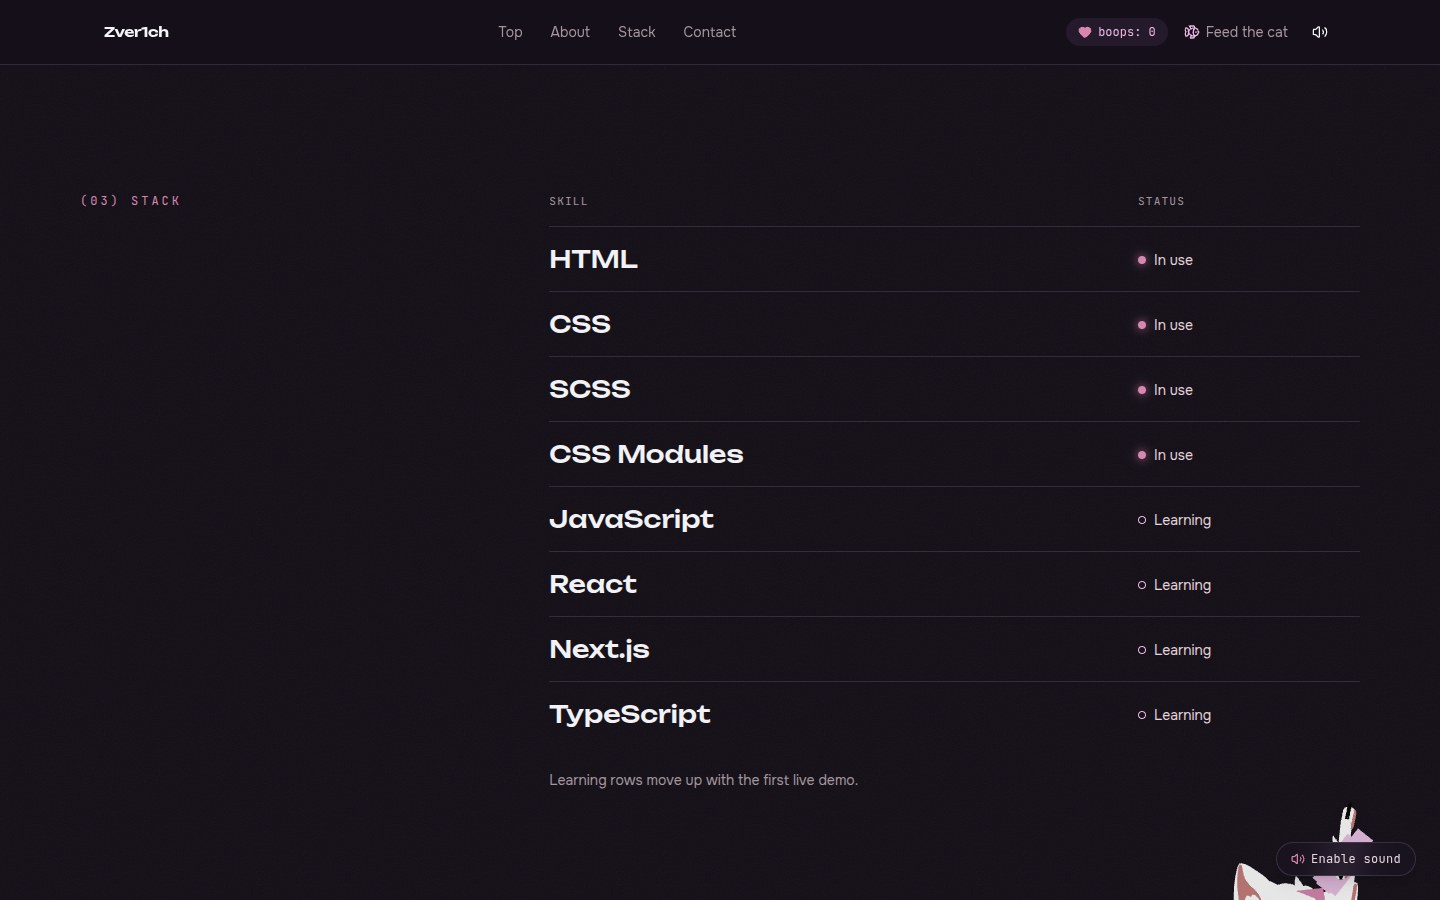
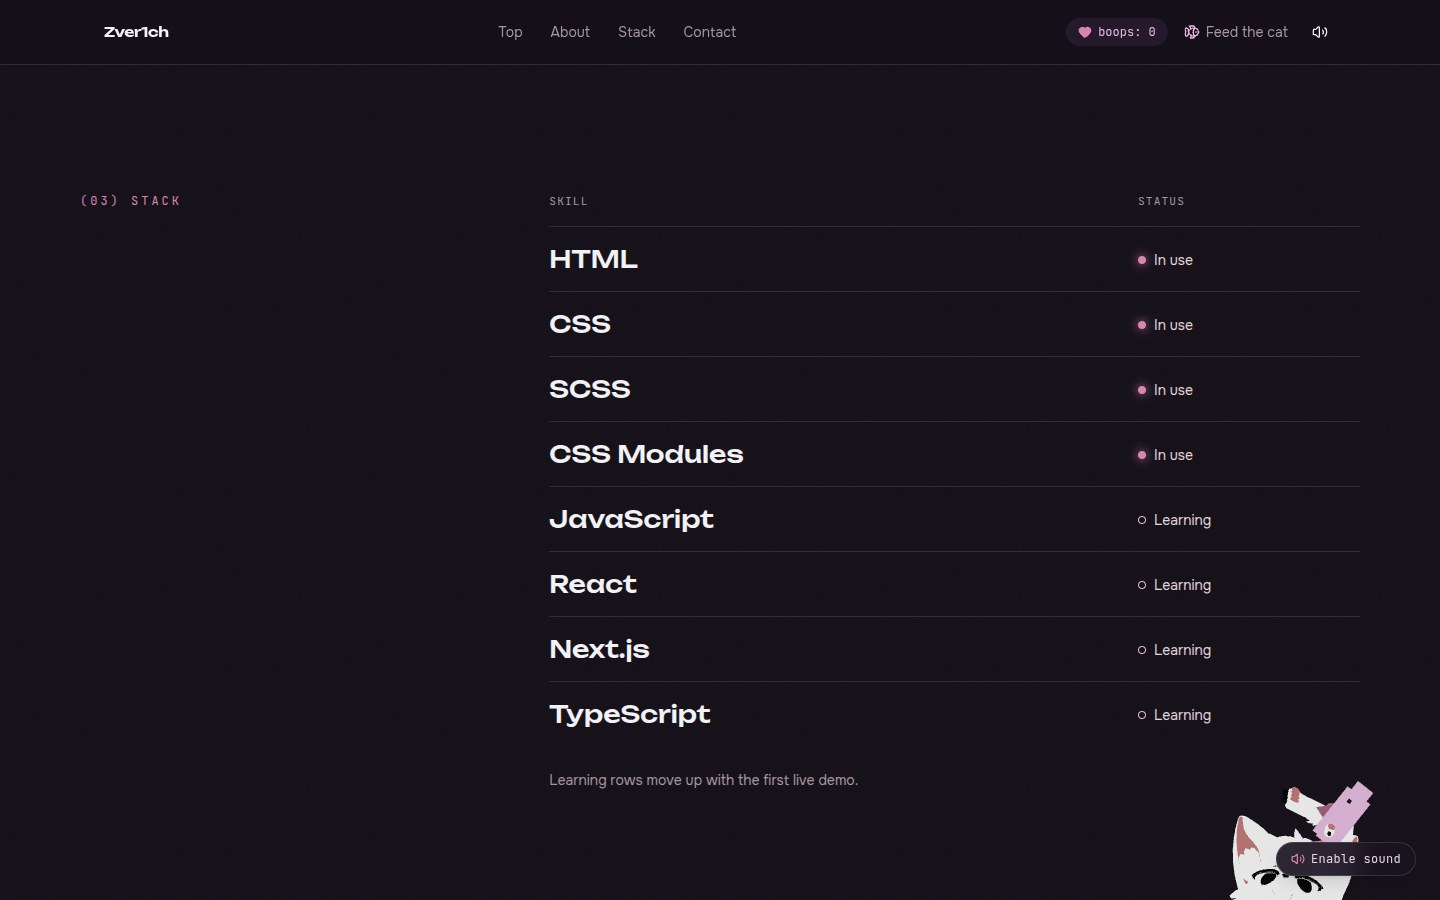
feat: gate 2 round 1: the hooked paw, a curled sleep pose, a blinking caret
The reaching paw was hyperextended with the pads to the sky: the arm IK now
rolls the forearm about its axis after the aim (twistDeg, -90 degrees for the
fish) and the reach pose flexes the wrist 70 degrees, so the paw curls
towards the head like a hook with the pads facing it and the visitor. The
pose format gains `post`, a local Euler offset applied after `aim` and
`twist`: exactly what the lab's bone/axis/deg override and sliders do, so a
value found there bakes in as it is.

The sleep pose is rewritten from scratch in character space: curled on the
left side with the back to the monitor and the belly to the visitor, head
towards the lamp, paws folded under the chin, thighs drawn up with the shins
folded back, the tail round the feet. The sleepy stretch shares the new root
(front legs out along the desk past the head, the back arched, hind legs
straight, tail out). Both clear the furniture by the clip check; the dawn
posters are re-rendered.

The typing line's caret blinks like a prompt (1.1 s, stepped) while the line
is idle and holds while the paw types; still under reduced motion.

- lab: `twist=` overrides the forearm roll, a turntable `reach` gets a target
- docs: the round-1 section and renders in the Gate 2 package, the stills
  recaptured from the production build

Changed region(s): [[0.8438, 0.8711, 0.9688, 1.0]]

diff --git a/src/features/cat-room/config/poses.ts b/src/features/cat-room/config/poses.ts
@@ -28,6 +28,12 @@ export type BonePose = {
 	aimWorld?: Vec3
 	/** Roll about the bone axis after `aim`, degrees. */
 	twist?: number
+	/**
+	 * Local Euler XYZ offset in degrees applied last, after `aim` and
+	 * `twist`: the same thing the lab's sliders and `bone/axis/deg` do, so a
+	 * value found there bakes in as it is.
+	 */
+	post?: Vec3
 }
 
 export type Pose = {
@@ -160,37 +166,49 @@ export const POSES: Record<PoseName, Pose> = {
 		},
 	},
 
+	/**
+	 * Asleep on the desk in front of the monitor (Gate 2, round 1): curled on
+	 * the left side, back to the monitor, belly to the visitor, head towards the
+	 * lamp. Written in character space, which lying on the left side maps to
+	 * the world as: +Y along the desk towards the head (+X world), +Z to the
+	 * visitor, +X down into the desk. The spine bends gently towards the
+	 * belly, so the face turns along the desk towards the dawn camera; the
+	 * forearms fold under the chin; the thighs come up towards the belly with
+	 * the shins folded back; the tail trails behind and curls round the feet.
+	 */
 	sleep: {
-		// Relative to the sitting spot: the sleeper lies along the desk from x = 0.
-		root: { position: [-0.7, 0.12, -0.26], rotation: [-75, 0, -90] },
+		root: { position: [-0.7, 0.1, -0.34], rotation: [-20, 0, -90] },
 		bones: {
-			hips: { aimWorld: [1, 0.08, 0.02] },
-			chest: { aimWorld: [1, 0.12, -0.05] },
-			neck: { aimWorld: [0.95, -0.1, -0.2] },
-			head: { aimWorld: [0.9, -0.3, -0.25], twist: 25 },
-			// Front paws stretched past the head and resting on the desk.
-			arm_l: { aimWorld: [0.7, -0.45, 0.4] },
-			elbow_l: { aimWorld: [0.95, -0.08, 0.25] },
-			wrist_l: { aimWorld: [1, 0.1, 0.15] },
-			arm_r: { aimWorld: [0.75, -0.45, -0.3] },
-			elbow_r: { aimWorld: [0.95, -0.08, -0.2] },
-			wrist_r: { aimWorld: [1, 0.1, -0.1] },
-			// Hind legs stretched the other way, slightly splayed, toes up.
-			leg_l: { aimWorld: [-0.85, 0.1, 0.45] },
-			knee_l: { aimWorld: [-0.95, 0.12, 0.3] },
-			foot_l: { aimWorld: [-0.85, 0.45, 0.3] },
-			leg_r: { aimWorld: [-0.88, 0.12, -0.3] },
-			knee_r: { aimWorld: [-0.92, 0.2, -0.25] },
-			foot_r: { aimWorld: [-0.75, 0.6, -0.3] },
-			// Tail thrown over the near thigh and down along the shin: the only
-			// room on the desk (the monitor base is behind, the keyboard in front).
-			tailroot: { aimWorld: [-0.35, 0.45, 0.8] },
-			tail: { aimWorld: [-0.8, 0.2, 0.45] },
-			tail001: { aimWorld: [-0.95, 0.05, -0.1] },
-			tail002: { aimWorld: [-0.95, 0, -0.3] },
-			tail003: { aimWorld: [-0.9, 0, -0.45] },
-			tail004: { aimWorld: [-0.85, 0, -0.5] },
-			tail005: { aimWorld: [-0.8, 0, -0.55] },
+			hips: { aim: [0, 1, 0.1] },
+			chest: { aim: [0, 0.95, 0.3] },
+			neck: { aim: [0, 0.9, 0.44] },
+			head: { aim: [0, 0.78, 0.63], post: [0, 0, 60] },
+			// Upper arms along the chest towards the chin, forearms folded in
+			// front of it, paws tucked under the chin (the `post` raise is what
+			// the lab's sliders found): the lower (left) arm on the desk, the
+			// right one over it.
+			arm_l: { aim: [0.5, 0.75, 0.45], post: [40, 0, 0] },
+			elbow_l: { aim: [0.2, 0.3, 0.93] },
+			wrist_l: { aim: [0, 0.5, 0.86] },
+			arm_r: { aim: [-0.1, 0.8, 0.6], post: [40, 0, 0] },
+			elbow_r: { aim: [0.1, 0.2, 0.97] },
+			wrist_r: { aim: [0, 0.4, 0.9] },
+			// Thighs up towards the belly, shins folded back, the right leg lying
+			// on the left one.
+			leg_l: { aim: [0.15, 0.45, 0.88] },
+			knee_l: { aim: [0.05, -0.95, 0.3] },
+			foot_l: { aim: [0, -0.8, 0.6] },
+			leg_r: { aim: [0.05, 0.45, 0.88] },
+			knee_r: { aim: [0, -0.95, 0.3] },
+			foot_r: { aim: [0, -0.8, 0.6] },
+			// The tail trails behind along the desk and curls round the feet.
+			tailroot: { aim: [0.1, -0.8, -0.6] },
+			tail: { aim: [0.1, -1, -0.1] },
+			tail001: { aim: [0.1, -0.9, 0.4] },
+			tail002: { aim: [0.1, -0.6, 0.8] },
+			tail003: { aim: [0.1, -0.2, 1] },
+			tail004: { aim: [0.05, 0.2, 0.98] },
+			tail005: { aim: [0.05, 0.5, 0.86] },
 			ear_l: { rot: [0, 0, 20] },
 			ear_r: { rot: [0, 0, -20] },
 			lefteye: { rot: [180, 0, 0] },
@@ -200,36 +218,37 @@ export const POSES: Record<PoseName, Pose> = {
 
 	/**
 	 * The pet reaction of the sleeper, played over `sleep` (same root, eyes
-	 * still shut): front paws pushed further along the desk, back arched,
-	 * hind legs straightened with the toes spread, head lifting a little,
-	 * ears up, tail curling off the shin. The jaw layer adds the yawn.
+	 * still shut): the front legs push out along the desk past the head, the
+	 * back arches, the hind legs straighten with the toes spread, the head
+	 * lifts a little, the ears come up, the tail straightens behind. The jaw
+	 * layer adds the yawn. Character space, as `sleep`.
 	 */
 	'sleep-stretch': {
-		root: { position: [-0.7, 0.12, -0.26], rotation: [-75, 0, -90] },
+		root: { position: [-0.7, 0.1, -0.34], rotation: [-20, 0, -90] },
 		bones: {
-			hips: { aimWorld: [1, 0.16, 0.02] },
-			chest: { aimWorld: [1, 0.26, -0.05] },
-			neck: { aimWorld: [0.95, 0.05, -0.2] },
-			head: { aimWorld: [0.92, -0.12, -0.3], twist: 15 },
-			arm_l: { aimWorld: [0.85, -0.3, 0.42] },
-			elbow_l: { aimWorld: [1, 0, 0.2] },
-			wrist_l: { aimWorld: [1, 0.12, 0.1] },
-			arm_r: { aimWorld: [0.88, -0.3, -0.32] },
-			elbow_r: { aimWorld: [1, 0, -0.15] },
-			wrist_r: { aimWorld: [1, 0.12, -0.05] },
-			leg_l: { aimWorld: [-0.92, 0.05, 0.4] },
-			knee_l: { aimWorld: [-0.98, 0.08, 0.2] },
-			foot_l: { aimWorld: [-0.9, 0.4, 0.2] },
-			leg_r: { aimWorld: [-0.94, 0.08, -0.3] },
-			knee_r: { aimWorld: [-0.97, 0.15, -0.2] },
-			foot_r: { aimWorld: [-0.8, 0.55, -0.25] },
-			tailroot: { aimWorld: [-0.3, 0.6, 0.7] },
-			tail: { aimWorld: [-0.7, 0.45, 0.5] },
-			tail001: { aimWorld: [-0.9, 0.3, 0.1] },
-			tail002: { aimWorld: [-0.95, 0.15, -0.2] },
-			tail003: { aimWorld: [-0.92, 0.05, -0.4] },
-			tail004: { aimWorld: [-0.88, 0, -0.48] },
-			tail005: { aimWorld: [-0.82, 0, -0.55] },
+			hips: { aim: [0, 1, -0.05] },
+			chest: { aim: [0, 0.95, -0.2] },
+			neck: { aim: [0, 0.95, 0.1] },
+			head: { aim: [0, 0.9, 0.4], post: [0, 0, 45] },
+			arm_l: { aim: [0.05, 0.95, 0.3] },
+			elbow_l: { aim: [0, 0.95, 0.3] },
+			wrist_l: { aim: [0, 0.9, 0.44] },
+			arm_r: { aim: [-0.2, 0.9, 0.4] },
+			elbow_r: { aim: [0, 0.95, 0.3] },
+			wrist_r: { aim: [0, 0.9, 0.44] },
+			leg_l: { aim: [0.05, -0.9, 0.42] },
+			knee_l: { aim: [0.05, -0.95, 0.3] },
+			foot_l: { aim: [0, -0.7, 0.7] },
+			leg_r: { aim: [-0.1, -0.85, 0.5] },
+			knee_r: { aim: [-0.05, -0.95, 0.3] },
+			foot_r: { aim: [0, -0.6, 0.8] },
+			tailroot: { aim: [0.1, -0.9, -0.4] },
+			tail: { aim: [0.1, -1, -0.1] },
+			tail001: { aim: [0.1, -1, 0.1] },
+			tail002: { aim: [0.1, -0.95, 0.3] },
+			tail003: { aim: [0.05, -0.9, 0.44] },
+			tail004: { aim: [0.05, -0.85, 0.5] },
+			tail005: { aim: [0, -0.8, 0.6] },
 			ear_l: { rot: [0, 0, 6] },
 			ear_r: { rot: [0, 0, -6] },
 			lefteye: { rot: [180, 0, 0] },
@@ -259,13 +278,18 @@ export const POSES: Record<PoseName, Pose> = {
 		},
 	},
 
-	/** Overlay gag: the left paw reaching up for the fish or the cursor. */
+	/**
+	 * Overlay gag: the left paw reaching up for the fish or the cursor. The
+	 * arm itself is placed by the IK; the wrist's flex (`post`) curls the paw
+	 * towards the head so the pads face it, and `GAGS.fish.pawTwistDeg` rolls
+	 * the forearm so that curl faces the visitor.
+	 */
 	reach: {
 		bones: {
 			chest: { aim: [0.15, 0.95, 0.15] },
 			arm_l: { aim: [0.3, 0.9, 0.3] },
 			elbow_l: { aim: [0.1, 0.95, 0.25] },
-			wrist_l: { aim: [0, 0.9, 0.4] },
+			wrist_l: { aim: [0, 0.9, 0.4], post: [70, 0, 0] },
 			arm_r: { aim: [-0.3, -0.9, 0.3] },
 			elbow_r: { aim: [-0.1, -0.6, 0.8] },
 		},

diff --git a/src/features/cat-room/ui/typing-line.tsx b/src/features/cat-room/ui/typing-line.tsx
@@ -26,6 +26,8 @@ export function TypingLine({
 	const line = useRef<HTMLSpanElement>(null)
 	const { entered } = useInView(line, '0px')
 	const [shown, setShown] = useState(text)
+	// The caret blinks while nothing happens and holds steady while the paw types.
+	const [busy, setBusy] = useState(false)
 
 	useEffect(() => {
 		if (!entered) return
@@ -36,6 +38,7 @@ export function TypingLine({
 			let length = text.length
 			let phase: 'erase' | 'type' = 'erase'
 			const step = () => {
+				setBusy(true)
 				if (phase === 'erase') {
 					length -= 1
 					setShown(text.slice(0, length))
@@ -51,6 +54,7 @@ export function TypingLine({
 						step,
 						TYPE_MS + Math.random() * TYPE_JITTER_MS,
 					)
+				else setBusy(false)
 			}
 			timer = window.setTimeout(step, 400)
 		}
@@ -60,6 +64,7 @@ export function TypingLine({
 			window.clearTimeout(timer)
 			window.removeEventListener('cat-typing', run)
 			setShown(text)
+			setBusy(false)
 		}
 	}, [entered, text])
 
@@ -67,6 +72,7 @@ export function TypingLine({
 		<span
 			ref={line}
 			data-typing-line
+			data-busy={busy ? '' : undefined}
 			aria-hidden
 			className={cn(
 				'inline-block min-w-[10ch] text-right font-mono tracking-normal normal-case after:ml-px after:inline-block after:h-[1em] after:w-[0.5ch] after:translate-y-[0.15em] after:bg-rose/80 after:content-[""]',

diff --git a/src/features/cat-room/lib/scene/cat/limb-ik.ts b/src/features/cat-room/lib/scene/cat/limb-ik.ts
@@ -1,4 +1,5 @@
-import type { Quaternion } from 'three'
+import { Quaternion } from 'three'
+import { DEG } from '@/shared/lib/math/ease'
 import type { Vec3 } from '@/shared/lib/math/vec3'
 import { solveTwoBone } from '../../ik'
 import type { CatRig } from './rig'
@@ -7,6 +8,8 @@ import type { CatRig } from './rig'
  * Points an arm at a target in character space: the shoulder joint is read
  * from the current pose, the two bone lengths from the rest pose, and the
  * solved directions are applied as aims to the upper arm and the forearm.
+ * The shortest-arc aim leaves the forearm's roll arbitrary, so `twistDeg`
+ * rolls it about its own axis afterwards: that is what turns the palm.
  */
 export function applyArmIk(
 	rig: CatRig,
@@ -15,6 +18,7 @@ export function applyArmIk(
 	target: Vec3,
 	pole: Vec3,
 	rootScale: number,
+	twistDeg = 0,
 ) {
 	const arm = rig.indexOf(`arm_${side}`)
 	const elbow = rig.indexOf(`elbow_${side}`)
@@ -35,5 +39,9 @@ export function applyArmIk(
 	)
 	rig.aim(local, arm, solution.upper)
 	rig.aim(local, elbow, solution.lower)
+	if (twistDeg)
+		local[elbow].multiply(
+			new Quaternion().setFromAxisAngle(rig.axis[elbow], twistDeg * DEG),
+		)
 	return solution
 }

diff --git a/src/pages/lab/ui/lab-page.tsx b/src/pages/lab/ui/lab-page.tsx
@@ -2,6 +2,7 @@
 
 import { useEffect, useRef, useState } from 'react'
 import type { PoseName } from '@/features/cat-room/config/poses'
+import { CAT_SPOT } from '@/features/cat-room/config/room-layout'
 import { GAGS, OVERLAY } from '@/features/cat-room/config/tuning'
 import {
 	cameraAt,
@@ -94,6 +95,12 @@ function frameFor(
 	} else if (params.cam === 'hero') {
 		camera = cameraAt('dive', 0, aspect)
 	}
+	// A turntable `reach` gets a fish-height target too, so the close cameras
+	// show the IK'd paw (the overlay sets its own above).
+	if (!reach && basePose(params) === 'reach') {
+		const [sx, sy, sz] = CAT_SPOT.position
+		reach = [sx + 0.1, sy + 0.95, sz + 0.2]
+	}
 	return {
 		phase: view === 'finale' ? 'finale' : 'room',
 		camera,
@@ -110,6 +117,7 @@ function frameFor(
 		cut: false,
 		overlay,
 		reach,
+		reachTwistDeg: params.twist ?? undefined,
 		fish,
 		stepped: params.stepped,
 	}

diff --git a/src/pages/lab/lib/lab-params.ts b/src/pages/lab/lib/lab-params.ts
@@ -59,6 +59,8 @@ export type LabParams = {
 	hair: boolean
 	/** Hide the cat (room look-dev). */
 	nocat: boolean
+	/** Roll of the reaching forearm, degrees (null keeps the tuning value). */
+	twist: number | null
 }
 
 const VIEWS: LabView[] = [
@@ -130,6 +132,7 @@ export function parseLabParams(search: string): LabParams {
 		lite: q.get('lite') === '1',
 		hair: q.get('hair') === '1',
 		nocat: q.get('nocat') === '1',
+		twist: num(q.get('twist')),
 	}
 }
 
@@ -185,7 +188,7 @@ export function focusPoint(
 	const [x, y, z] = CAT_SPOT.position
 	// The sleeper lies along the desk from x = 0; a seated cat's chest is a
 	// little above the spot; a standing one (rest, probes) stands on it.
-	if (pose === 'sleep') return [0.25, y + 0.12, z - 0.26]
+	if (pose === 'sleep') return [0.25, y + 0.1, z - 0.3]
 	return SEATED_POSES.has(pose) ? [x, y + 0.18, z] : [x, y + 0.31, z]
 }
 

diff --git a/src/features/cat-room/lib/scene/cat/cat.ts b/src/features/cat-room/lib/scene/cat/cat.ts
@@ -4,7 +4,7 @@ import type { Vec3 } from '@/shared/lib/math/vec3'
 import type { Collider } from '../../../config/colliders'
 import { POSES, type PoseName } from '../../../config/poses'
 import { CAT_SPOT } from '../../../config/room-layout'
-import { CHAINS, EYELIDS, PET } from '../../../config/tuning'
+import { CHAINS, EYELIDS, GAGS, PET } from '../../../config/tuning'
 import type { DirectorFrame } from '../../../model/frame'
 import { tailFlick } from '../../camera-path'
 import { patchMaterial, type SceneUniforms } from '../materials'
@@ -232,6 +232,7 @@ export async function createCat({
 				[target.x, target.y, target.z],
 				[0, 0.4, 1],
 				model.scale,
+				frame.reachTwistDeg ?? GAGS.fish.pawTwistDeg,
 			)
 		}
 

diff --git a/app/globals.css b/app/globals.css
@@ -192,6 +192,18 @@ html[data-room-mode="static"] [data-loader-veil] {
 		display: block;
 	}
 }
+/* The typing line's caret blinks like a prompt waiting for input; it holds while the paw types. */
+@media (prefers-reduced-motion: no-preference) {
+	[data-typing-line]:not([data-busy])::after {
+		animation: caret-blink 1.1s steps(1, end) infinite;
+	}
+}
+@keyframes caret-blink {
+	50% {
+		opacity: 0;
+	}
+}
+
 /*
  * The credits over the dawn room (plan §3.14): a scrim that fades in from the
  * top and is solid ink at the bottom, invisible on the ink page itself.

diff --git a/src/features/cat-room/model/frame.ts b/src/features/cat-room/model/frame.ts
@@ -29,6 +29,8 @@ export type DirectorFrame = {
 	overlay: OverlayPlacement | null
 	/** World point the left paw reaches for (the fish), or null. */
 	reach: Vec3 | null
+	/** Roll of the reaching forearm, degrees; the tuning value when absent (a lab override). */
+	reachTwistDeg?: number
 	/** The dropped fish: where it is, or that the paw holds it now. */
 	fish: { position: Vec3; held: boolean } | null
 	/** Quantise the animation clock to 12 steps a second (lab toggle). */

diff --git a/src/features/cat-room/config/tuning.ts b/src/features/cat-room/config/tuning.ts
@@ -165,5 +165,11 @@ export const GAGS = {
 		sink: 0.5,
 		show: 0.2,
 		xRange: [0.12, 0.88] as const,
+		/**
+		 * Roll of the reaching forearm about its axis, degrees: with the
+		 * wrist's flex in the `reach` pose the pads face the head and the
+		 * visitor, like a hook, instead of the sky.
+		 */
+		pawTwistDeg: -90,
 	},
 } as const

diff --git a/src/features/cat-room/lib/scene/cat/rig.ts b/src/features/cat-room/lib/scene/cat/rig.ts
@@ -215,6 +215,17 @@ export class CatRig {
 						entry.twist * DEG,
 					),
 				)
+			if (entry.post)
+				local[i].multiply(
+					new Quaternion().setFromEuler(
+						new Euler(
+							entry.post[0] * DEG,
+							entry.post[1] * DEG,
+							entry.post[2] * DEG,
+							'XYZ',
+						),
+					),
+				)
 		}
 		return {
 			local,

diff --git a/src/features/cat-room/config/poses.test.ts b/src/features/cat-room/config/poses.test.ts
@@ -28,6 +28,8 @@ describe('poses', () => {
 				...Object.values(pose.bones).flatMap((bone) => [
 					...(bone.rot ?? []),
 					...(bone.aim ?? []),
+					...(bone.aimWorld ?? []),
+					...(bone.post ?? []),
 					bone.twist ?? 0,
 				]),
 			]
